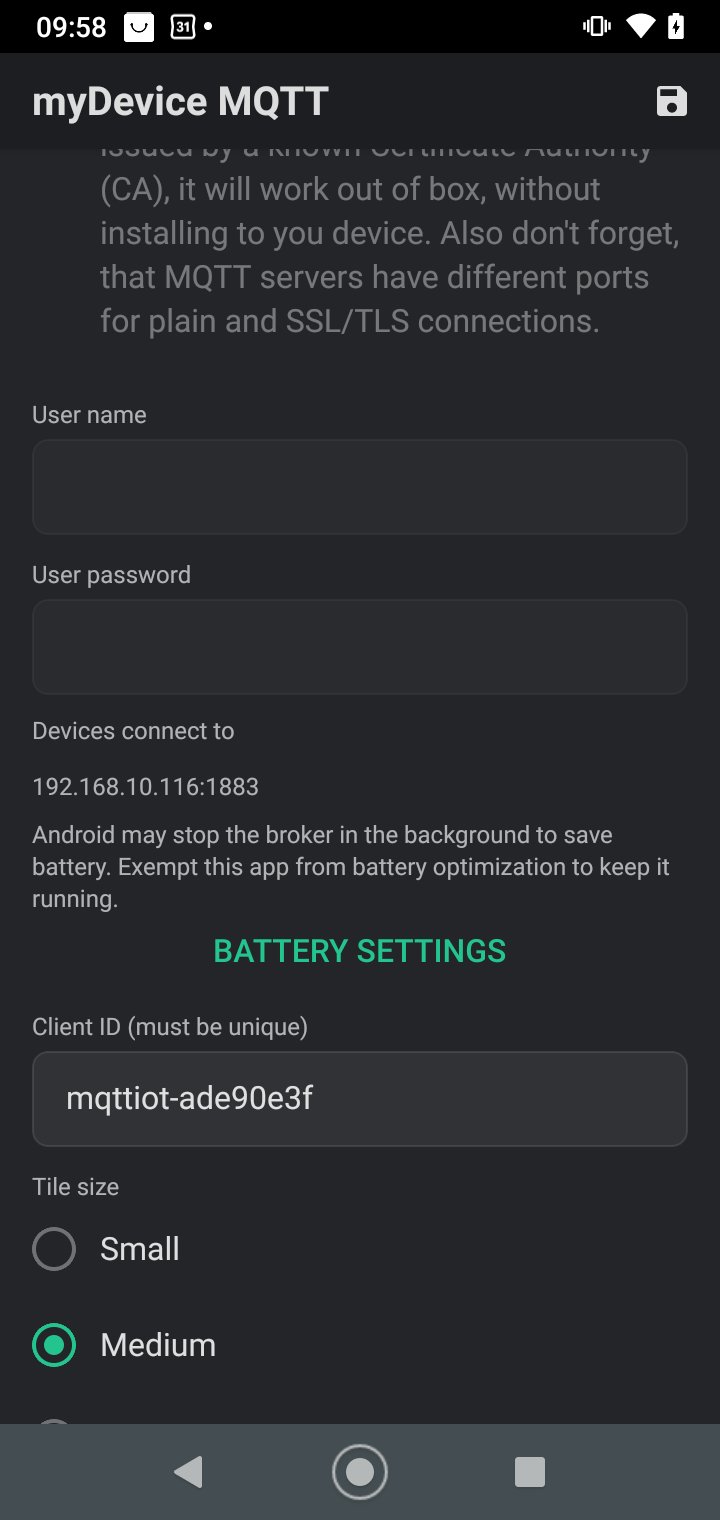
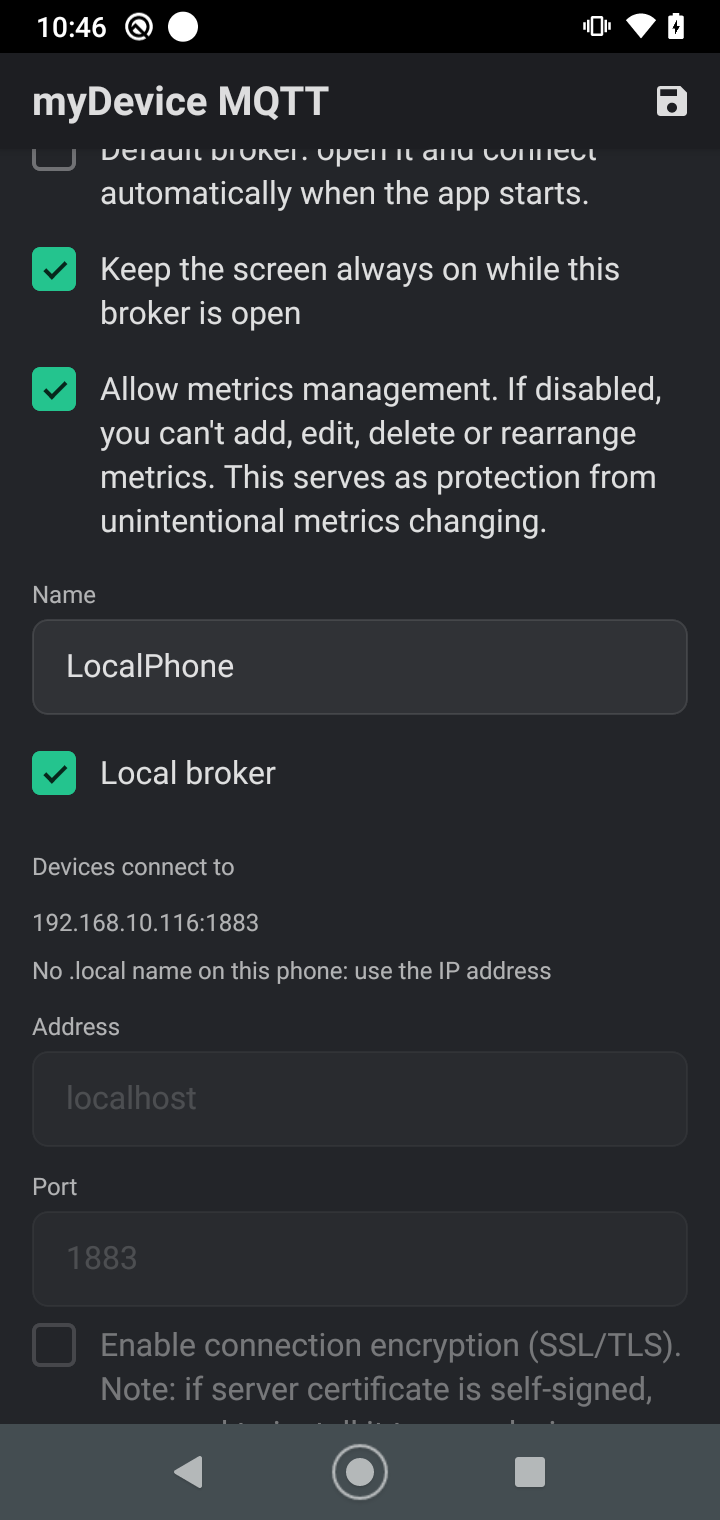
Show the phone address and .local alias right below the Local broker checkbox
The alias row says so when the phone has no usable .local name.

diff --git a/src/ui/BrokerFormScreen.tsx b/src/ui/BrokerFormScreen.tsx
@@ -146,6 +146,13 @@ export function BrokerFormScreen({ navigation, route }: Props) {
       <Label top={10}>{S.name}</Label>
       <Field value={name} onChangeText={setName} />
       <Check checked={local} onChange={onLocalToggle} style={{ marginTop: 10 }}>{U.local_broker}</Check>
+      {local ? (
+        <>
+          <Label top={10}>{U.local_broker_connect_to}</Label>
+          <Hint>{net.ips.length > 0 ? net.ips.map((ip) => `${ip}:${port}`).join('\n') : U.local_broker_no_wifi}</Hint>
+          <Hint>{net.alias ? `${net.alias}:${port}` : U.local_broker_no_alias}</Hint>
+        </>
+      ) : null}
       <Label>{S.address}</Label>
       <Field value={address} onChangeText={setAddress} disabled={local} />
       <Label>{S.port}</Label>
@@ -159,9 +166,6 @@ export function BrokerFormScreen({ navigation, route }: Props) {
       <Field value={password} onChangeText={setPassword} secure disabled={local} />
       {local ? (
         <>
-          <Label top={10}>{U.local_broker_connect_to}</Label>
-          <Hint>{net.ips.length > 0 ? net.ips.map((ip) => `${ip}:${port}`).join('\n') : U.local_broker_no_wifi}</Hint>
-          {net.alias ? <Hint>{`${net.alias}:${port}`}</Hint> : null}
           <Hint>{U.local_broker_battery_hint}</Hint>
           <FlatButton title={U.local_broker_battery_button} onPress={() => void Linking.sendIntent('android.settings.IGNORE_BATTERY_OPTIMIZATION_SETTINGS').catch(() => {})} />
         </>

diff --git a/src/i18n/locales/de.ts b/src/i18n/locales/de.ts
@@ -158,6 +158,7 @@ export const de: Dict = {
   local_broker_warning: 'Das Telefon betreibt einen eigenen MQTT-Broker. Er funktioniert nur im lokalen Netzwerk (gleiches WLAN): Geräte wie ein ESP32 müssen sich mit {address} verbinden. Es gibt keine Authentifizierung und keine Verschlüsselung, jeder im Netzwerk kann lesen und veröffentlichen.',
   local_broker_connect_to: 'Geräte verbinden sich mit',
   local_broker_no_wifi: 'Keine WLAN-Verbindung',
+  local_broker_no_alias: 'Kein .local-Name auf diesem Telefon: IP-Adresse verwenden',
   local_broker_battery_hint: 'Android kann den Broker im Hintergrund beenden, um Akku zu sparen. Nimm diese App von der Akkuoptimierung aus, damit er weiterläuft.',
   local_broker_battery_button: 'Akku-Einstellungen',
   local_broker_start_failed: 'Lokaler Broker konnte nicht gestartet werden',

diff --git a/src/i18n/locales/es.ts b/src/i18n/locales/es.ts
@@ -158,6 +158,7 @@ export const es: Dict = {
   local_broker_warning: 'El teléfono ejecuta su propio broker MQTT. Funciona solo en la red local (mismo Wi-Fi): dispositivos como un ESP32 deben conectarse a {address}. No hay autenticación ni cifrado, así que cualquiera en la red puede leer y publicar.',
   local_broker_connect_to: 'Los dispositivos se conectan a',
   local_broker_no_wifi: 'Sin conexión Wi-Fi',
+  local_broker_no_alias: 'Este teléfono no tiene nombre .local: usa la dirección IP',
   local_broker_battery_hint: 'Android puede detener el broker en segundo plano para ahorrar batería. Excluye esta app de la optimización de batería para mantenerlo activo.',
   local_broker_battery_button: 'Ajustes de batería',
   local_broker_start_failed: 'No se pudo iniciar el broker local',

diff --git a/src/i18n/locales/pt-BR.ts b/src/i18n/locales/pt-BR.ts
@@ -158,6 +158,7 @@ export const ptBR: Dict = {
   local_broker_warning: 'O celular executa o próprio broker MQTT. Funciona só na rede local (mesmo Wi-Fi): dispositivos como um ESP32 devem se conectar a {address}. Não há autenticação nem criptografia, então qualquer pessoa na rede pode ler e publicar.',
   local_broker_connect_to: 'Dispositivos conectam em',
   local_broker_no_wifi: 'Sem conexão Wi-Fi',
+  local_broker_no_alias: 'Este celular não tem nome .local: use o endereço IP',
   local_broker_battery_hint: 'O Android pode parar o broker em segundo plano para economizar bateria. Isente este app da otimização de bateria para mantê-lo ativo.',
   local_broker_battery_button: 'Ajustes de bateria',
   local_broker_start_failed: 'Não foi possível iniciar o broker local',

diff --git a/src/i18n/ui.ts b/src/i18n/ui.ts
@@ -28,6 +28,7 @@ export const U_EN = {
   local_broker_warning: 'The phone runs its own MQTT broker. It works only on the local network (same Wi-Fi): devices such as an ESP32 must connect to {address}. There is no authentication or encryption, so anyone on the network can read and publish.',
   local_broker_connect_to: 'Devices connect to',
   local_broker_no_wifi: 'No Wi-Fi connection',
+  local_broker_no_alias: 'No .local name on this phone: use the IP address',
   local_broker_battery_hint: 'Android may stop the broker in the background to save battery. Exempt this app from battery optimization to keep it running.',
   local_broker_battery_button: 'Battery settings',
   local_broker_start_failed: 'Could not start the local broker',

diff --git a/README.md b/README.md
@@ -65,8 +65,9 @@ listens on port 1883 of every interface, with no TLS, no WebSocket and no authen
 
 - In *Add broker*, tick **Local broker**. A dialog explains that it works only on the local network (same Wi-Fi). The
   address becomes `localhost`, the port 1883, and the other connection fields are locked.
-- The app connects to `localhost`. ESP32 boards and other clients connect to the phone's address, shown under the fields
-  as **Devices connect to** (the Wi-Fi IPv4 address, and a `<name>.local` alias when the phone has a usable host name).
+- The app connects to `localhost`. ESP32 boards and other clients connect to the phone's address, shown right below the
+  checkbox as **Devices connect to** (the Wi-Fi IPv4 address, and a `<name>.local` alias when the phone has a usable host
+  name; many Android phones have none, and the form then says so).
 - The broker runs while a dashboard of that broker is open, while a notification tile of it is watched, or while it is
   the default broker. A foreground service notification stays up so Android keeps the process alive. Some phones still
   stop it to save battery: use the *Battery settings* button on the form to exempt the app.
